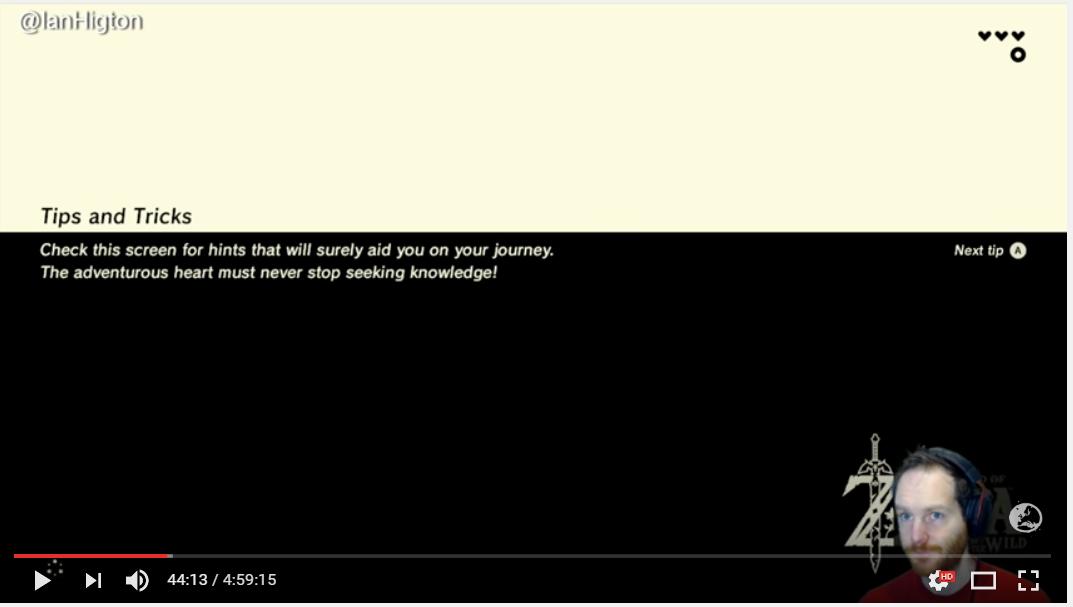
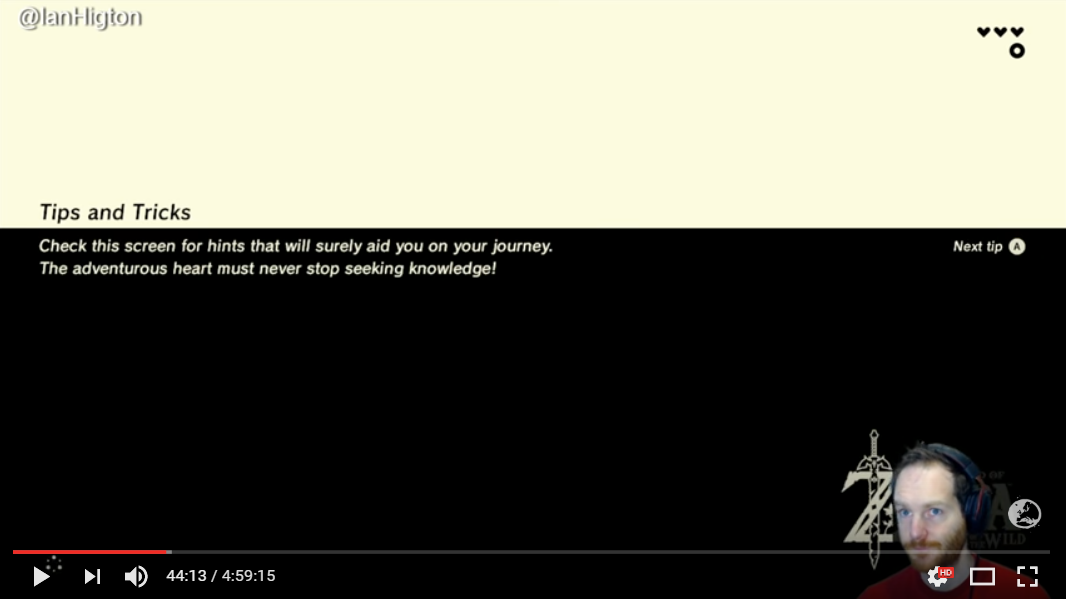
Cause issues with padding and VH. To fix at a later time

Changed region(s): [[0.0, 0.3306, 1.0, 1.0], [0.0, 0.0, 0.1238, 0.0601], [0.8977, 0.0301, 0.9597, 0.1202]]

diff --git a/styles.css b/styles.css
@@ -16,15 +16,17 @@
 
 .section {
   font-family: 'calamity';
-  padding: 1.75%;
+/*  padding: 15px 45px;*/
   font-weight: bold;
   line-height: 1.5;
+  width: 100%;
+
 
   display: flex;
 }
 
 .section--upper {
-  height: 38.3vh;
+  height: 38vh;
 
   background-color: #FCFAE1;
   
@@ -32,7 +34,7 @@
 }
 
 .section--lower{
-  height: 61.7vh;
+  height: 62vh;
 
   background-color: black;
   
@@ -40,5 +42,11 @@
 }
 
 .section__title {
+  font-size: 32px;
+
   align-self: flex-end;
 } 
+
+.section__info {
+  font-size: 20px;
+}
